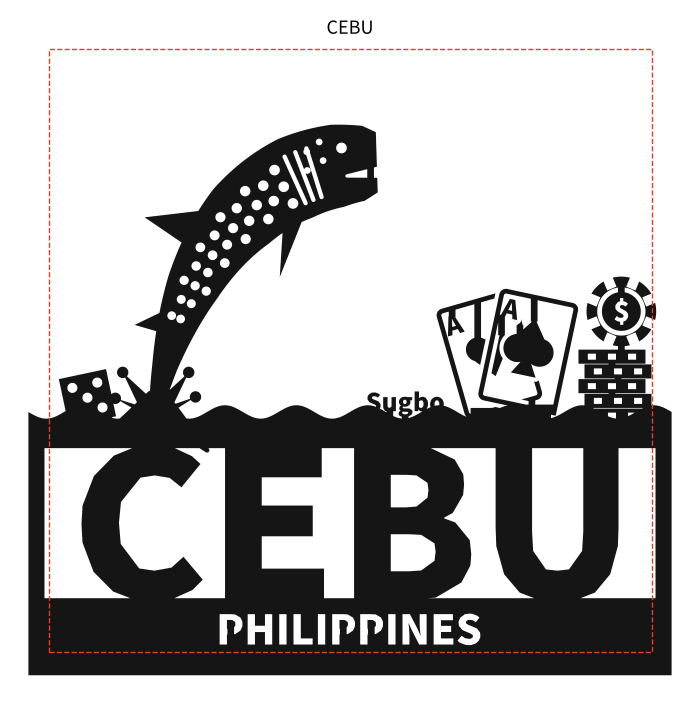
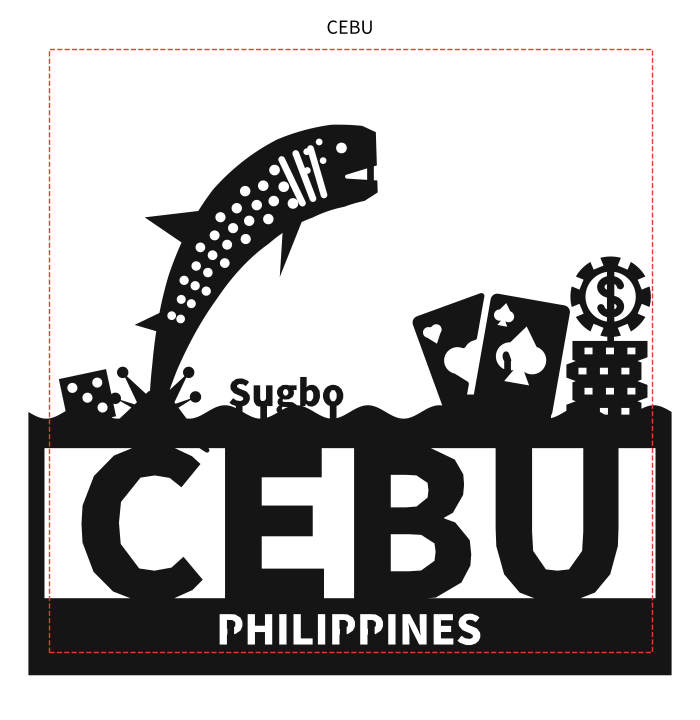
tabi-plate: 細さチェック（線・すき間0.8mm以上）を追加し、セブのカード・チップ・＄を太く作り直し
Claude-Session: https://claude.ai/code/session_01EF7eGVK1djh6GHrcdjubP2

Changed region(s): [[0.33, 0.3361, 0.96, 0.5806], [0.39, 0.1833, 0.48, 0.3056], [0.51, 0.2444, 0.54, 0.275]]

diff --git a/tabi-plate/tabi_plate.py b/tabi-plate/tabi_plate.py
@@ -362,9 +362,9 @@ def whale_shark(x, b=BASE):
     g = unary_union([body, tail, dors, dors2, pect])
     # 横長の大きな口（頭の先端に切り込み）、目、えら
     tip = e + de*2.0
-    mouth = Polygon([tuple(tip+de*1 - ne*0.6), tuple(tip+de*1 - ne*2.0), tuple(tip - de*4.5 - ne*1.8)]).buffer(0.25)
+    mouth = Polygon([tuple(tip+de*1 - ne*0.4), tuple(tip+de*1 - ne*2.4), tuple(tip - de*4.5 - ne*1.9)]).buffer(0.3)
     eye = Point(*(e - de*3.2 + ne*2.4)).buffer(0.8, 16)
-    gills = unary_union([LineString([tuple(C[i]+n[i]*3.6), tuple(C[i]-n[i]*4.0)]).buffer(0.32) for i in (int(0.86*199), int(0.83*199), int(0.80*199))])
+    gills = unary_union([LineString([tuple(C[i]+n[i]*3.4), tuple(C[i]-n[i]*3.8)]).buffer(0.5) for i in (int(0.87*199), int(0.83*199), int(0.79*199))])
     g = g - mouth - eye - gills
     # 白い斑点と縞（ジンベイザメの水玉模様）
     inner = body.buffer(-1.2)
@@ -389,7 +389,7 @@ def whale_shark(x, b=BASE):
 
 def _card(cx, cy, w, h, ang, suit):
     c = box(-w/2+1, -h/2+1, w/2-1, h/2-1).buffer(1.0, 8)
-    c = c - box(-w/2+1.0, -h/2+1.0, w/2-1.0, h/2-1.0).buffer(1.0, 8).buffer(-0.7)   # 縁取り
+    c = c - box(-w/2+1.0, -h/2+1.0, w/2-1.0, h/2-1.0).buffer(1.0, 8).buffer(-1.1)   # 縁取り1.1mm
     c = c | suit
     return affinity.translate(affinity.rotate(c, ang, origin=(0, 0)), cx, cy)
 
@@ -403,33 +403,50 @@ def _heart(s=1.0):
                         Polygon([(-3.3*s, 0.0), (3.3*s, 0.0), (0, -4.2*s)])])
 
 def casino_cards(x, b=BASE):
-    """トランプの扇（A♠とA♥）"""
-    a = _card(x-3.2, b+10.0, 12, 17, 16, affinity.translate(_heart(0.95), 0, 0.6))
-    a_txt = fit(text_geom('A'), -5.2, -2.6, 4.0, 7.4, keep_aspect=True)
-    s = _card(x+2.6, b+10.4, 12, 17, -12, affinity.translate(_spade(1.05), 0, 0.2))
-    s_txt = fit(text_geom('A'), -5.2, -2.6, 4.0, 7.4, keep_aspect=True)
-    a = a | affinity.translate(affinity.rotate(a_txt, 16, origin=(0, 0)), x-3.2, b+10.0)
-    s = s | affinity.translate(affinity.rotate(s_txt, -12, origin=(0, 0)), x+2.6, b+10.4)
-    # 後ろのカードは前のカードと重なる部分を消してから重ねる（前のカードの縁＝隙間0.6）
-    a = a - s.buffer(0.6).buffer(0)
-    front_mask = affinity.translate(affinity.rotate(box(-6, -8.5, 6, 8.5), -12, origin=(0, 0)), x+2.6, b+10.4)
-    return unary_union([a, s, box(x-6, b-0.5, x+6, b+2.0)]) | front_mask.intersection(box(-99, b-0.5, 99, b+2.5))
+    """トランプ2枚（黒地にハート・スペードを白抜き）。線もすき間も1mm以上"""
+    def card(cx, cy, ang, suit):
+        c = box(-5.0, -7.5, 5.0, 7.5).buffer(1.0, 8)
+        c = c - affinity.translate(suit(1.05), 0, -0.4)                       # 中央の大きなマーク
+        c = c - affinity.translate(suit(0.42), -3.6, 5.4)                     # 左上の小さなマーク
+        return affinity.translate(affinity.rotate(c, ang, origin=(0, 0)), cx, cy)
+    back = card(x-4.4, b+9.4, 20, _heart)
+    front = card(x+3.6, b+9.8, -10, _spade)
+    back = (back - front.buffer(1.0)).buffer(-0.45).buffer(0.45)              # 重なり部分は1mmのすき間
+    g = unary_union([back, front, box(x-8, b-0.5, x+8, b+1.6)])
+    close = g.buffer(1.0).buffer(-1.0).intersection(box(x-9, b-0.5, x+9, b+4.0))   # 足元の細いすき間を埋める
+    return unary_union([g, close])
+
+def _dollar(cx, cy, hgt):
+    """太線で描いた＄（線1.1mm・すき間1mm以上）"""
+    k = hgt/7.0; lw = 0.55*max(k, 1.0)
+    t = np.linspace(0, 1, 60)
+    # S字：上の弧→斜め→下の弧
+    up = [(cx+1.6*k*np.cos(a), cy+1.6*k+1.2*k*np.sin(a)) for a in np.linspace(np.radians(10), np.radians(270), 40)]
+    lo = [(cx+1.6*k*np.cos(a), cy-1.6*k+1.2*k*np.sin(a)) for a in np.linspace(np.radians(90), np.radians(-170), 40)]
+    S = LineString(up + lo).buffer(lw, cap_style=1)
+    bar = LineString([(cx, cy-4.2*k), (cx, cy+4.2*k)]).buffer(lw, cap_style=2)
+    return unary_union([S, bar])
 
 def chip_stack(x, b=BASE):
-    """カジノチップの山と、立てかけた1枚"""
-    g = []
-    for k in range(5):
-        y = b + k*2.2; dx = (0.5 if k % 2 else -0.4)
-        ch = box(x-5+dx, y-0.2 if k else b-0.5, x+5+dx, y+1.9)
-        for sx in (-3.0, 0, 3.0): ch = ch - box(x+dx+sx-0.6, y+0.4, x+dx+sx+0.6, y+1.3)
+    """カジノチップの山と、立てかけた$チップ（線もすき間も1mm以上）"""
+    g = []; H = 3.0
+    for k in range(4):
+        y = b + k*H; dx = (0.5 if k % 2 else -0.4)
+        ch = box(x-5.6+dx, (y if k else b-0.5), x+5.6+dx, y+H)
+        for sx in (-3.2, 0, 3.2): ch = ch - box(x+dx+sx-0.6, y+1.0, x+dx+sx+0.6, y+2.0)   # 縁の模様（白1.2×1.0）
         g.append(ch)
     stack = unary_union(g)
-    face = Point(x+1.0, b+16.4).buffer(5.2, 64)
-    face = face - Point(x+1.0, b+16.4).buffer(3.6, 64).difference(Point(x+1.0, b+16.4).buffer(2.9, 64)).buffer(0)
-    for k in range(8):
-        a = np.radians(k*45+22.5)
-        face = face - affinity.rotate(box(x+1.0+4.25-0.55, b+16.4-0.75, x+1.0+5.3, b+16.4+0.75), k*45+22.5, origin=(x+1.0, b+16.4))
-    face = face - fit(text_geom('$'), x-0.4, x+2.4, b+14.4, b+18.4, keep_aspect=True)
+    for k in range(1, 4):                       # 段の区切り：両端にV字の切れ込み
+        y = b + k*H
+        for sgn in (-1, 1):
+            ex = x + sgn*6.2
+            stack = stack - Polygon([(ex, y-0.6), (ex - sgn*1.6, y), (ex, y+0.6)])
+    cx, cy, R = x+0.6, b+4*H+6.6, 6.0
+    face = Point(cx, cy).buffer(R, 64)
+    for k in range(8):                          # 外周の切り欠き（幅1.6・深さ1.3）
+        face = face - affinity.rotate(box(cx+R-1.3, cy-0.8, cx+R+0.5, cy+0.8), k*45+22.5, origin=(cx, cy))
+    face = face - Point(cx, cy).buffer(3.75, 64)       # 中を抜いて…
+    face = face | _dollar(cx, cy, 6.4)                  # 太い＄を内側の輪につなげて描く
     return unary_union([stack, face])
 
 def dice(x, b=BASE):
@@ -498,6 +515,40 @@ def build(cfg):
     G = G - fit(text_geom(band), -40, 40, -44.0, -39.3, keep_aspect=True)
     return connect(G).buffer(0)
 
+# ================= 細さチェック =================
+MIN_W = 0.8     # 線・すき間の最小幅（0.4mmノズル2本分）。これより細い所があると印刷を止める
+WIN = box(-45, -45, 45, 45)   # 正面から見える範囲
+
+def _long_side(p):
+    r = p.minimum_rotated_rectangle; xy = np.array(r.exterior.coords)
+    return max(np.hypot(*(xy[1]-xy[0])), np.hypot(*(xy[2]-xy[1])))
+
+def thin_check(G, minw=MIN_W):
+    """細すぎる「線」と「すき間」を見つける（窓から見える所だけ）"""
+    r = minw/2
+    op = G.buffer(-r, join_style=1).buffer(r, join_style=1)
+    thin = G.difference(op.buffer(0.03)).intersection(WIN)
+    hole = box(-70, -70, 70, 70).difference(G)
+    gop = hole.buffer(-r, join_style=1).buffer(r, join_style=1)
+    gap = hole.difference(gop.buffer(0.03)).intersection(WIN.buffer(-0.5))
+    pick = lambda g: [p for p in getattr(g, 'geoms', [g]) if p.area > 0.25 and not p.is_empty
+                      and _long_side(p) > 2.5]
+    return pick(thin), pick(gap)
+
+def thin_report(name, G):
+    import matplotlib; matplotlib.use('Agg'); import matplotlib.pyplot as plt
+    thin, gap = thin_check(G)
+    if thin or gap:
+        fig, ax = plt.subplots(figsize=(7, 7))
+        for p in getattr(G, 'geoms', [G]):
+            ax.fill(*p.exterior.xy, color='#222')
+            for i in p.interiors: ax.fill(*i.xy, color='white')
+        for p in thin: ax.fill(*p.exterior.xy, color='red')
+        for p in gap: ax.fill(*p.exterior.xy, color='deepskyblue')
+        ax.set_aspect('equal'); ax.axis('off'); ax.set_title(f'{name}: 細い線(赤) {len(thin)} / 細いすき間(青) {len(gap)}')
+        plt.savefig(f'out/{name}_thin.png', dpi=110); plt.close()
+    return thin, gap
+
 if __name__ == '__main__':
     import trimesh
     cfg = json.load(open(sys.argv[1])); name = cfg['name']
@@ -506,6 +557,9 @@ if __name__ == '__main__':
     n = len(G.geoms) if G.geom_type == 'MultiPolygon' else 1
     print(name, 'components:', n, 'bounds:', [round(v, 1) for v in G.bounds])
     assert n == 1, '浮いた部分が残っています'
+    thin, gap = thin_report(name, G)
+    print(name, f'細い線 {len(thin)} か所 / 細いすき間 {len(gap)} か所（{MIN_W}mm未満）', [(round(p.centroid.x,1), round(p.centroid.y,1)) for p in thin+gap][:10])
+    if (thin or gap) and '--force' not in sys.argv: sys.exit(f'NG: 細い所があります → out/{name}_thin.png を確認')
     m = trimesh.creation.extrude_polygon(G, THICK)
     m.export(f'out/{name}_silhouette.stl')
     pickle.dump(G, open(f'out/{name}.pkl', 'wb'))

diff --git a/tabi-plate/README.md b/tabi-plate/README.md
@@ -24,6 +24,8 @@
 - 英字（タイトル）は必ず上下の帯に接する。長い単語は文字を細くしすぎず（横方向は最大0.85倍まで）、上の帯とモチーフをまとめて下げて調整する
 - 浮いた部分は約1mm幅のブリッジでつなぐ。上下の帯は左右の溝に隠れる柱でつなぐ
 
+- 線もすき間も **0.8mm以上**（0.4mmノズル2本分）。`tabi_plate.py` が自動でチェックし、細い所があると止まって `out/<name>_thin.png` に赤（細い線）・青（細いすき間）で場所を出す。小さい文字や記号は白抜きの細線にせず、太線で描くか黒地に白抜きにする
+
 ## 寸法
 - シルエット：96×93mm・厚さ1.0mm。溝(幅2.0mm)に下敷き0.8mmと重ねて入れる（シルエットが奥、下敷きが手前）
 - 箱：正面106mm角、内寸90mm角・奥行31mm（`box/build_box.py`）
